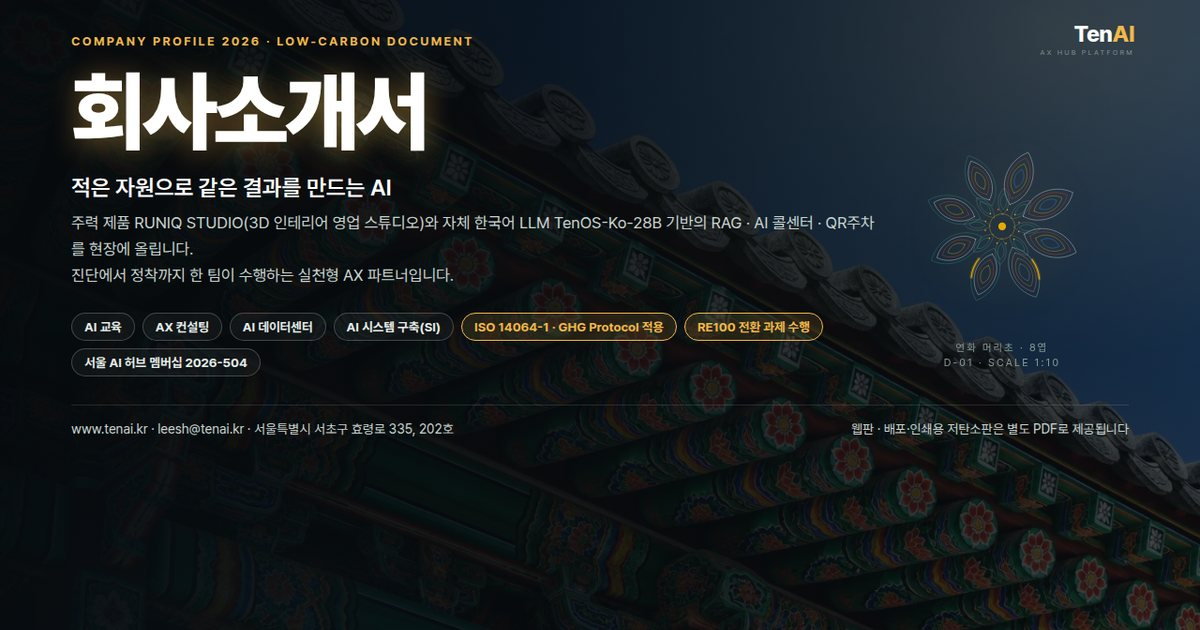
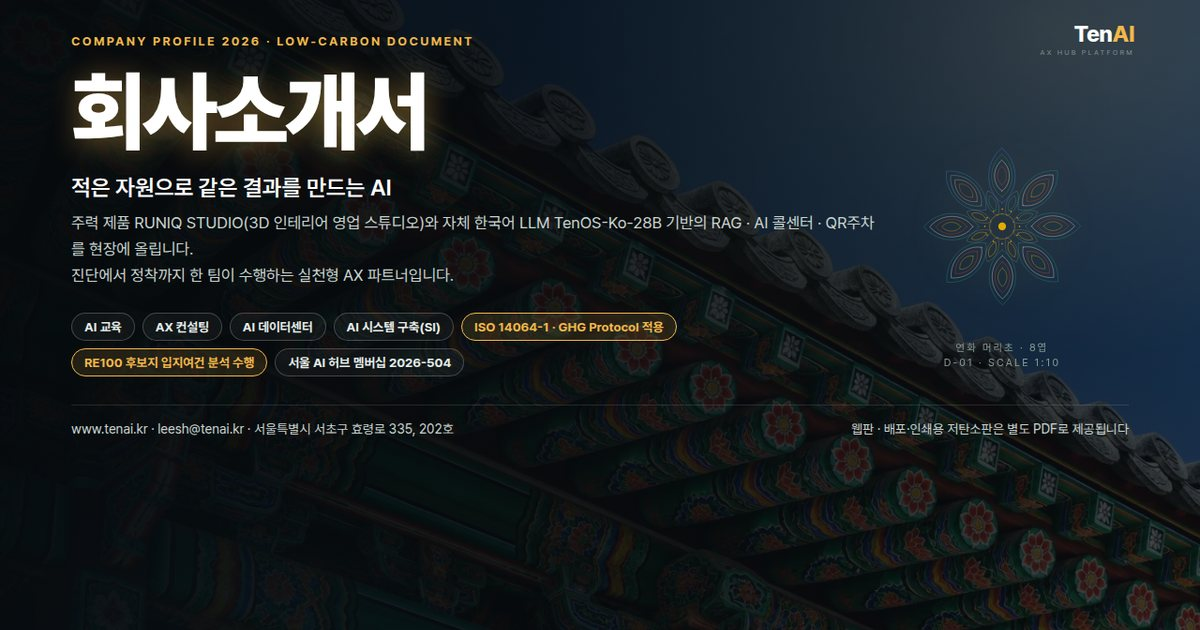
과제명 정정: 장성군 'RE100 후보지 입지여건 분석'
웹 회사소개서와 사업 페이지에서 'RE100 전환 과제' · '재생에너지 100% 전환
(대응) 과제'로 적혀 있던 장성군 과제를 정식 이름으로 바꾼다.

- 웹판(/profile/): 표지·연락처 태그, ESG 준거 기준표, AIDC 장,
  진행 중인 프로젝트 카드, 대표 사례 목록
- 공유 미리보기 표지 이미지(og-profile.jpg) 다시 렌더
- 사업 페이지 프로젝트 카드 + 영문 사전, 홈·회사·학습 홈 구조화 데이터 설명

Claude-Session: https://claude.ai/code/session_015bQfbpvMmRXYDBiVBf9ePQ

Changed region(s): [[0.7708, 0.2413, 0.8942, 0.4825], [0.0617, 0.5429, 0.4008, 0.6032], [0.555, 0.4825, 0.7092, 0.5429]]

diff --git a/public/profile/index.html b/public/profile/index.html
@@ -626,7 +626,7 @@ html{-webkit-text-size-adjust:100%;text-size-adjust:100%}
     <div class="marks">
       <span class="tag">AI 교육</span><span class="tag">AX 컨설팅</span><span class="tag">AI 데이터센터</span>
       <span class="tag">AI 시스템 구축(SI)</span>
-      <span class="tag l">ISO 14064-1 · GHG Protocol 적용</span><span class="tag l">RE100 전환 과제 수행</span>
+      <span class="tag l">ISO 14064-1 · GHG Protocol 적용</span><span class="tag l">RE100 후보지 입지여건 분석 수행</span>
       <span class="tag">서울 AI 허브 멤버십 2026-504</span>
     </div>
     <div class="rule" style="margin:30px 0 14px"></div>
@@ -948,7 +948,7 @@ html{-webkit-text-size-adjust:100%;text-size-adjust:100%}
           <tr><th style="width:170px">기준</th><th>적용</th><th style="width:86px">상태</th></tr>
           <tr><td class="k">ISO 14064-1</td><td>조직·행사 단위 배출량 산정 — 3만 명 규모 페스티벌에 적용</td><td><span class="tag l">적용 중</span></td></tr>
           <tr><td class="k">GHG Protocol</td><td>배출량 집계·리포팅 체계의 기준 프레임워크</td><td><span class="tag l">적용 중</span></td></tr>
-          <tr><td class="k">RE100</td><td>재생에너지 100% 전환 과제 수행 (장성군 산단·AIDC)</td><td><span class="tag l">수행 중</span></td></tr>
+          <tr><td class="k">RE100</td><td>RE100 후보지 입지여건 분석 수행 (장성군 산단·AIDC)</td><td><span class="tag l">수행 중</span></td></tr>
           <tr><td class="k">Sustainable Web Design v4</td><td>디지털 산출물의 전송 탄소 산정 기준 — 본 소개서에 적용</td><td><span class="tag l">적용 중</span></td></tr>
         </table></div>
       <div class="card" style="padding:14px 18px"><h3>AI 신뢰 · 정보보호 기준</h3>
@@ -1080,7 +1080,7 @@ html{-webkit-text-size-adjust:100%;text-size-adjust:100%}
         <div class="rule" style="margin:10px 0"></div>
         <div class="eyebrow">REFERENCE</div>
         <div style="font-size:15px;font-weight:700;color:var(--forest)">장성군 AIDC 컨설팅</div>
-        <p>구축 전략 수립 · 기술 자문 1건 진행 중. RE100 재생에너지 100% 전환 과제와 연계해 전력 조건까지 함께 검토합니다.</p></div>
+        <p>구축 전략 수립 · 기술 자문 1건 진행 중. RE100 후보지 입지여건 분석 과제와 연계해 전력 조건까지 함께 검토합니다.</p></div>
       <div class="g2">
         <div class="card"><h3>수요 · 용량 산정</h3><p>업무·서비스별 AI 워크로드를 분석해 GPU·스토리지 적정 규모를 산정합니다. 과잉 투자와 과소 설계를 모두 방지합니다.</p></div>
         <div class="card"><h3>전력 · 냉각 설계 자문</h3><p>전력·냉각·네트워크 등 AI 특화 요구사항을 반영한 설계 검토와 자문을 수행합니다. 재생에너지 조달 조건을 함께 봅니다.</p></div>
@@ -1851,7 +1851,7 @@ html{-webkit-text-size-adjust:100%;text-size-adjust:100%}
     <div class="g4">
       <div class="card hi"><div class="lbl">ESG</div><h3>AI ESG 플랫폼</h3><p>리본디어스의 숲 조성 사업과 AI 기술을 결합한 그린 AX 파트너십</p>
         <div class="mini" style="margin-top:auto;color:var(--forest);font-weight:700">greenax.kr</div></div>
-      <div class="card hi"><div class="lbl">ESG</div><h3>RE100 전환 과제</h3><p>재생에너지 100% 전환 대응 과제 1건 수행 (장성군)</p>
+      <div class="card hi"><div class="lbl">ESG</div><h3>RE100 후보지 입지여건 분석</h3><p>장성군 RE100 후보지의 입지여건을 분석하는 과제 1건 수행</p>
         <div class="mini" style="margin-top:auto;color:var(--forest);font-weight:700">수행 중</div></div>
       <div class="card"><div class="lbl">CONSULTING</div><h3>AIDC 컨설팅</h3><p>구축 전략 수립과 기술 자문 1건 진행 (장성군 AIDC)</p>
         <div class="mini" style="margin-top:auto;color:var(--forest);font-weight:700">진행 중</div></div>
@@ -1892,7 +1892,7 @@ html{-webkit-text-size-adjust:100%;text-size-adjust:100%}
       <div class="card hi"><span class="tag l" style="align-self:flex-start">INFRASTRUCTURE</span>
         <h3 style="font-size:18px">장성군 RE100 · AIDC</h3><div class="mini" style="font-weight:700;color:var(--ink)">전라남도 장성군</div>
         <p>재생에너지 100% 산업단지와 AI 데이터센터를 동시에 추진하려면 전력 조건과 AI 워크로드를 함께 봐야 합니다.</p>
-        <ul class="list" style="font-size:13.5px"><li>RE100 전환 대응 과제 수행</li><li>AIDC 구축 전략 수립 및 기술 자문</li>
+        <ul class="list" style="font-size:13.5px"><li>RE100 후보지 입지여건 분석 수행</li><li>AIDC 구축 전략 수립 및 기술 자문</li>
           <li>AI 워크로드 기반 GPU·용량 산정</li><li>정책 진단 자문 (2025–2026)</li></ul>
         <div class="mini" style="margin-top:auto;font-weight:700">과제 1건 수행 · 사전 컨설팅 1건</div></div>
       <div class="card"><span class="tag" style="align-self:flex-start">PUBLIC AX</span>
@@ -2072,7 +2072,7 @@ html{-webkit-text-size-adjust:100%;text-size-adjust:100%}
       <div><div class="lbl">ADDRESS</div><div style="font-size:13px;font-weight:700;color:var(--forest);margin-top:5px">서울특별시 서초구 효령로 335, 202호</div></div>
     </div>
     <div class="marks" style="margin-top:30px">
-      <span class="tag l">ISO 14064-1 · GHG Protocol 적용</span><span class="tag l">RE100 전환 과제 수행</span>
+      <span class="tag l">ISO 14064-1 · GHG Protocol 적용</span><span class="tag l">RE100 후보지 입지여건 분석 수행</span>
       <span class="tag l">Sustainable Web Design v4 기준 저탄소 문서</span><span class="tag">서울 AI 허브 멤버십 2026-504</span><span class="tag a">GS인증 · CSAP 준비 예정</span></div>
     <div class="rule" style="margin:26px 0 12px"></div>
     <div style="display:flex;justify-content:space-between;align-items:baseline">

diff --git a/biz.html b/biz.html
@@ -238,7 +238,7 @@
       "@id": "https://tenai.kr/#aidc",
       "name": "AIDC 컨설팅 (AI 데이터센터 컨설팅)",
       "serviceType": "AI 데이터센터 수요·용량 산정 · 전력·냉각 설계 자문 · 보안 아키텍처 · 운영 전략",
-      "description": "AI 데이터센터(AIDC)의 GPU 수요 산정부터 전력·냉각 설계 검토, 망분리·보안 아키텍처, 단계별 투자 및 운영 전략까지 자문합니다. RE100 재생에너지 전환 과제와 연계해 전력 조건을 함께 검토합니다.",
+      "description": "AI 데이터센터(AIDC)의 GPU 수요 산정부터 전력·냉각 설계 검토, 망분리·보안 아키텍처, 단계별 투자 및 운영 전략까지 자문합니다. RE100 후보지 입지여건 분석 과제와 연계해 전력 조건을 함께 검토합니다.",
       "provider": {
         "@id": "https://tenai.kr/#organization"
       },

diff --git a/index.html b/index.html
@@ -238,7 +238,7 @@
       "@id": "https://tenai.kr/#aidc",
       "name": "AIDC 컨설팅 (AI 데이터센터 컨설팅)",
       "serviceType": "AI 데이터센터 수요·용량 산정 · 전력·냉각 설계 자문 · 보안 아키텍처 · 운영 전략",
-      "description": "AI 데이터센터(AIDC)의 GPU 수요 산정부터 전력·냉각 설계 검토, 망분리·보안 아키텍처, 단계별 투자 및 운영 전략까지 자문합니다. RE100 재생에너지 전환 과제와 연계해 전력 조건을 함께 검토합니다.",
+      "description": "AI 데이터센터(AIDC)의 GPU 수요 산정부터 전력·냉각 설계 검토, 망분리·보안 아키텍처, 단계별 투자 및 운영 전략까지 자문합니다. RE100 후보지 입지여건 분석 과제와 연계해 전력 조건을 함께 검토합니다.",
       "provider": {
         "@id": "https://tenai.kr/#organization"
       },

diff --git a/learn.html b/learn.html
@@ -238,7 +238,7 @@
       "@id": "https://tenai.kr/#aidc",
       "name": "AIDC 컨설팅 (AI 데이터센터 컨설팅)",
       "serviceType": "AI 데이터센터 수요·용량 산정 · 전력·냉각 설계 자문 · 보안 아키텍처 · 운영 전략",
-      "description": "AI 데이터센터(AIDC)의 GPU 수요 산정부터 전력·냉각 설계 검토, 망분리·보안 아키텍처, 단계별 투자 및 운영 전략까지 자문합니다. RE100 재생에너지 전환 과제와 연계해 전력 조건을 함께 검토합니다.",
+      "description": "AI 데이터센터(AIDC)의 GPU 수요 산정부터 전력·냉각 설계 검토, 망분리·보안 아키텍처, 단계별 투자 및 운영 전략까지 자문합니다. RE100 후보지 입지여건 분석 과제와 연계해 전력 조건을 함께 검토합니다.",
       "provider": {
         "@id": "https://tenai.kr/#organization"
       },

diff --git a/business.html b/business.html
@@ -359,8 +359,8 @@
                     <span class="project-num outfit">02</span>
                     <span class="project-tag tag-biz">ESG</span>
                 </div>
-                <h3 class="project-title">RE100</h3>
-                <p class="project-desc">재생에너지 100% 전환 대응 과제 1건을 수행합니다.</p>
+                <h3 class="project-title">RE100 후보지 입지여건 분석</h3>
+                <p class="project-desc">장성군 RE100 후보지의 입지여건을 분석하는 과제 1건을 수행합니다.</p>
                 <span class="project-meta">1건 진행</span>
             </article>
             <article class="project-card">
